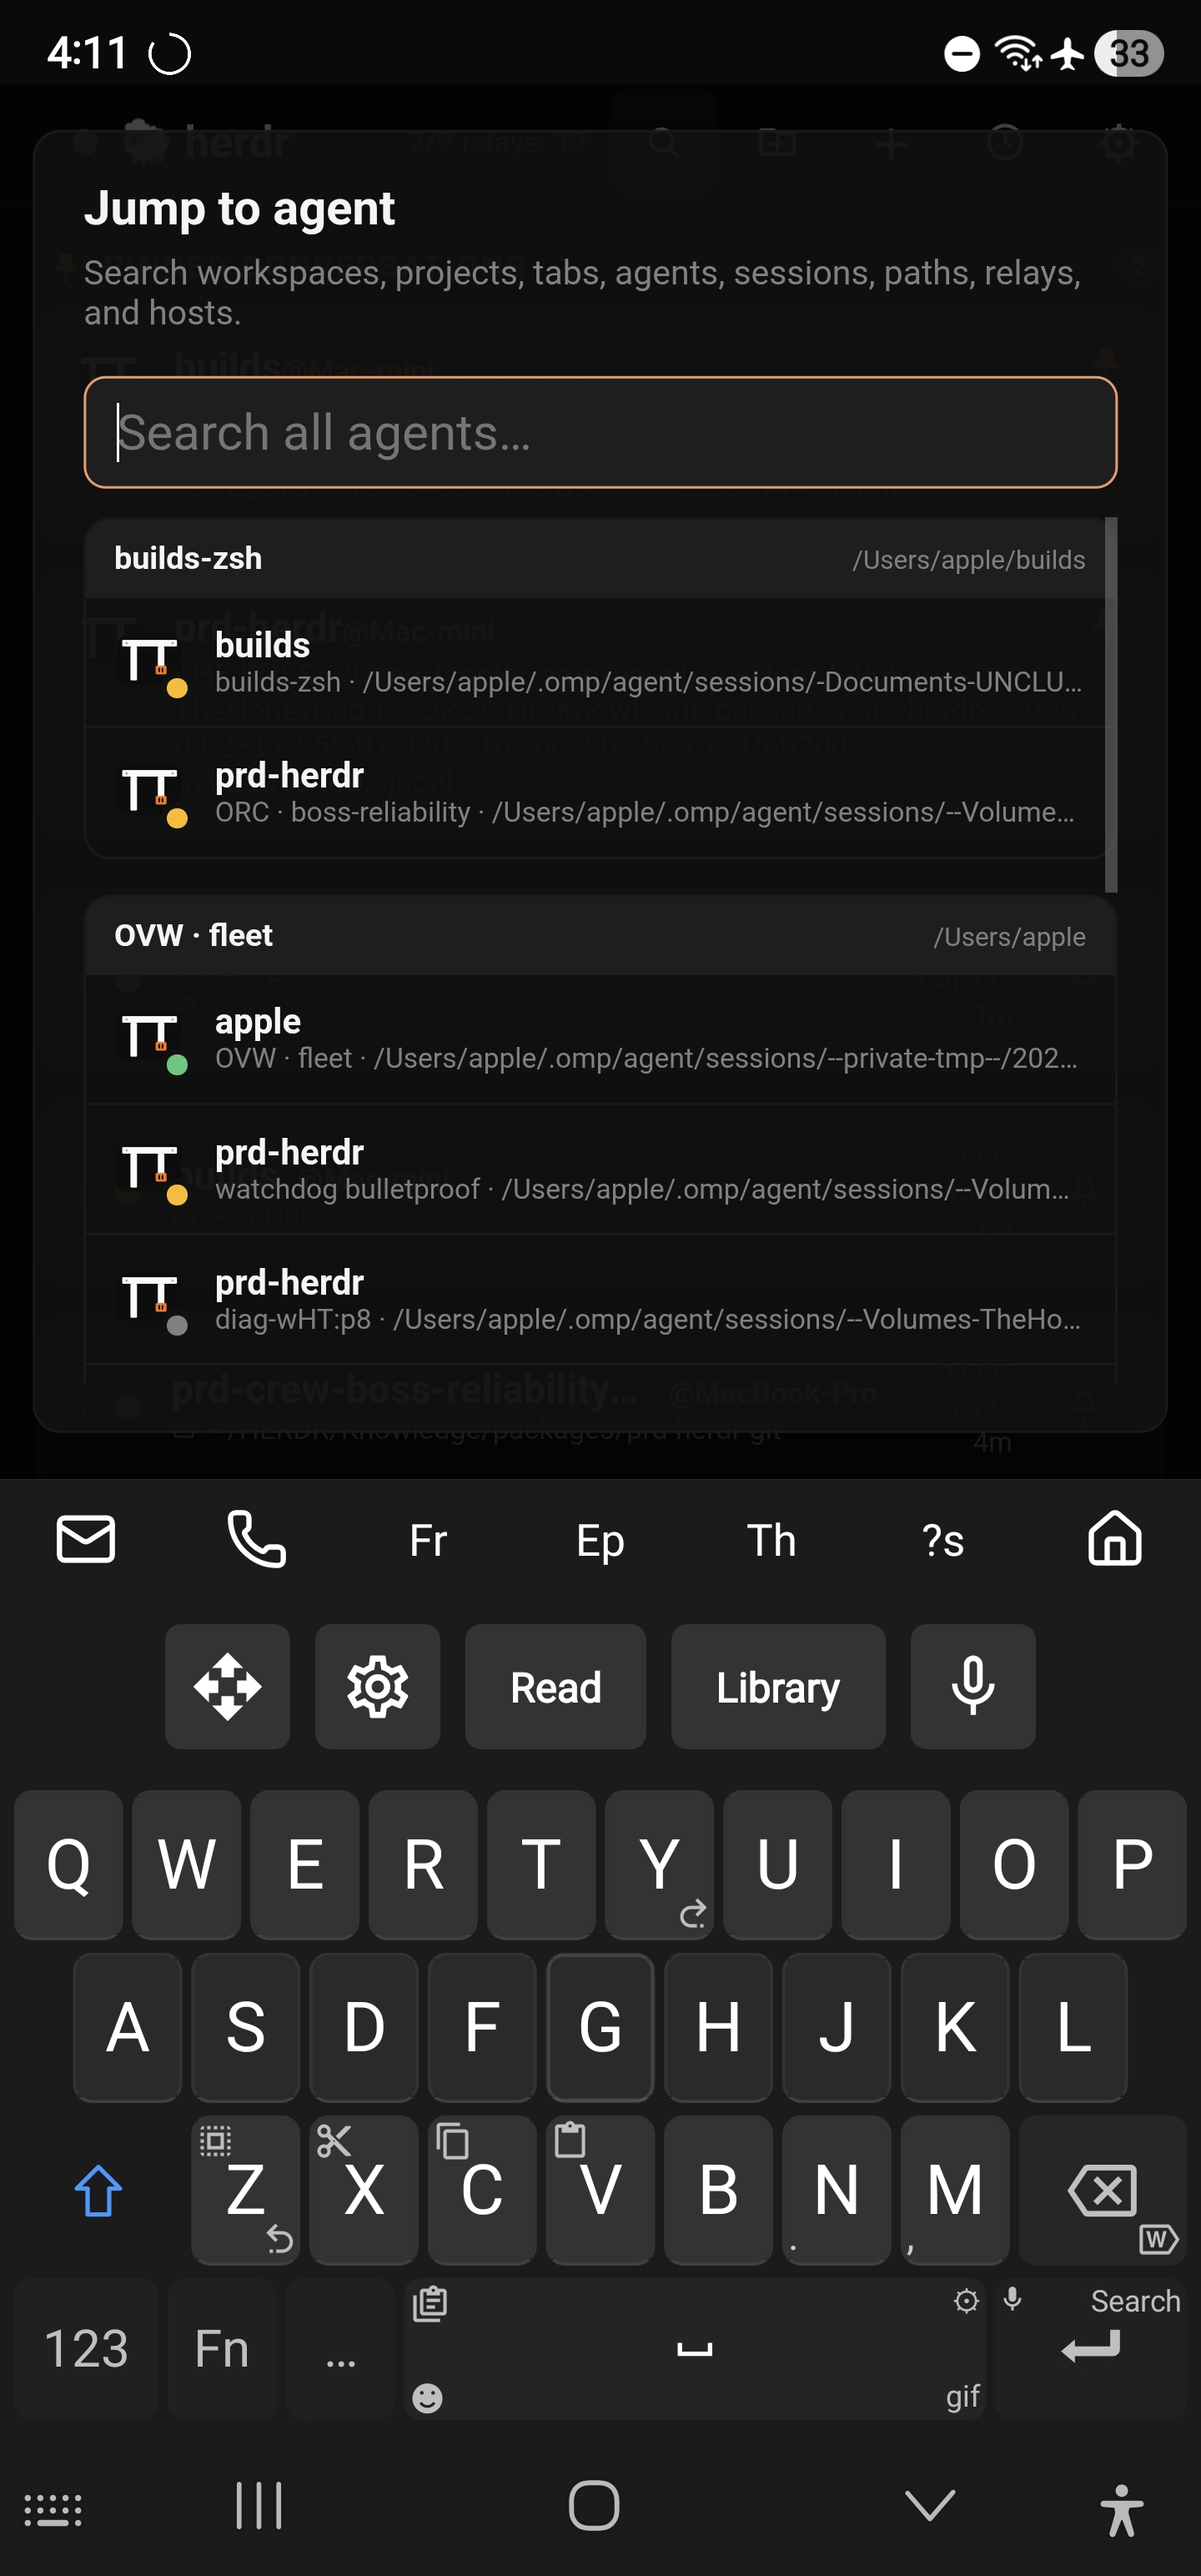
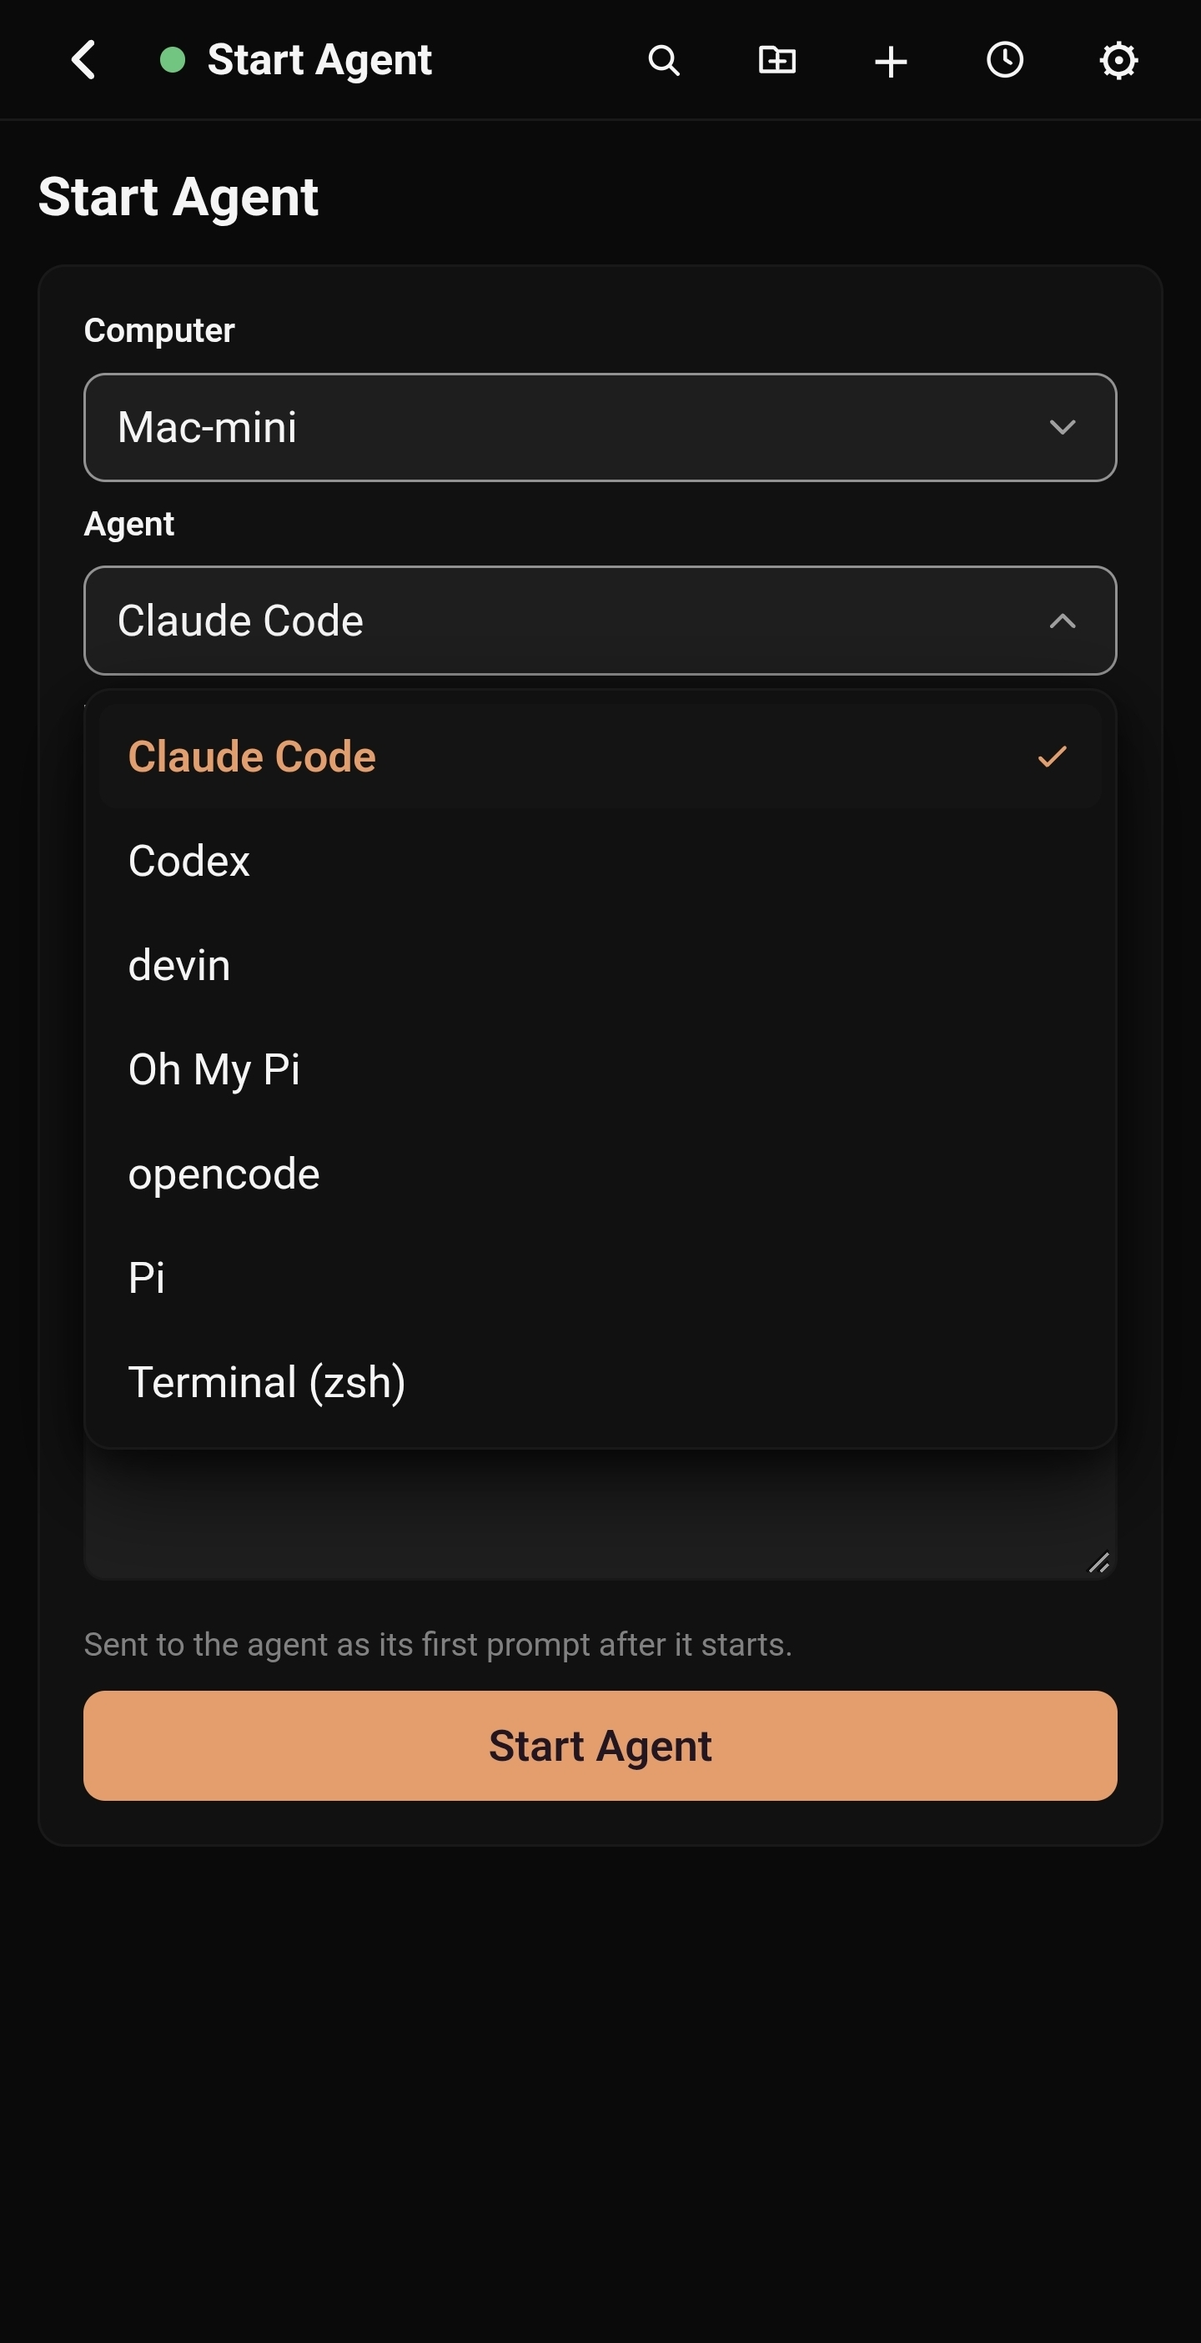
README: swap in current screenshots, ordered workspaces/settings/start-agent/home

diff --git a/README.md b/README.md
@@ -19,10 +19,10 @@ conversation history, manage workspaces and Git worktrees, and have responses
 read aloud — all end-to-end encrypted.
 
 <p>
-  <img src="docs/screenshots/home.jpg" alt="Home screen with pinned conversations and workspaces" width="24%">
   <img src="docs/screenshots/workspaces.jpg" alt="Workspace manager" width="24%">
-  <img src="docs/screenshots/jump-to-agent.jpg" alt="Jump to agent search" width="24%">
   <img src="docs/screenshots/settings.jpg" alt="Settings with theme and accent pickers" width="24%">
+  <img src="docs/screenshots/start-agent.jpg" alt="Start Agent with agent picker open" width="24%">
+  <img src="docs/screenshots/home.jpg" alt="Home screen with pinned conversations and workspaces" width="24%">
 </p>
 
 ## How it works
